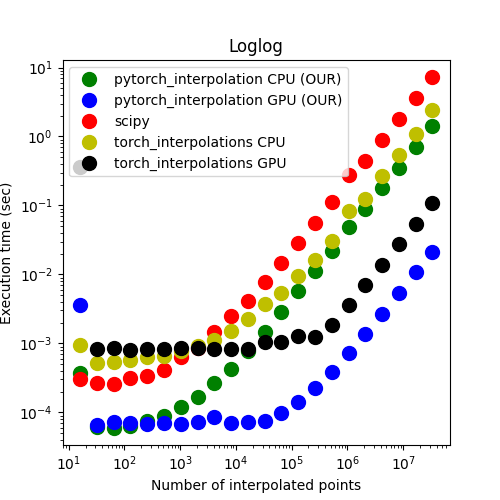
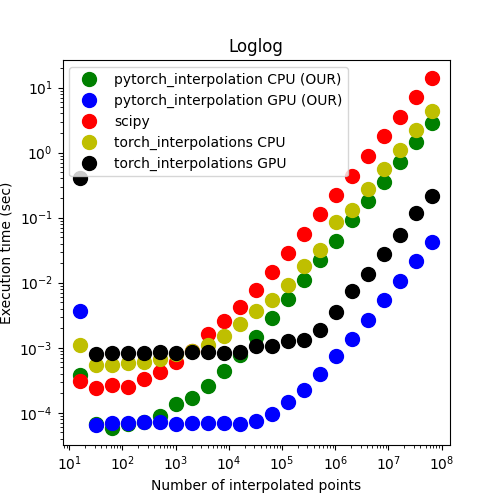
included one data point to performance

diff --git a/permormance.py b/permormance.py
@@ -89,7 +89,7 @@ def time_cuda_torch_interpolations(N):
     return 1e-3*(start.elapsed_time(end)) # conversion to sec
 
 
-Ns   = 2**torch.arange(4,26)
+Ns   = 2**torch.arange(4,27)
 time_pytorch_cpu = []
 time_pytorch_cuda = []
 time_scipy = []
